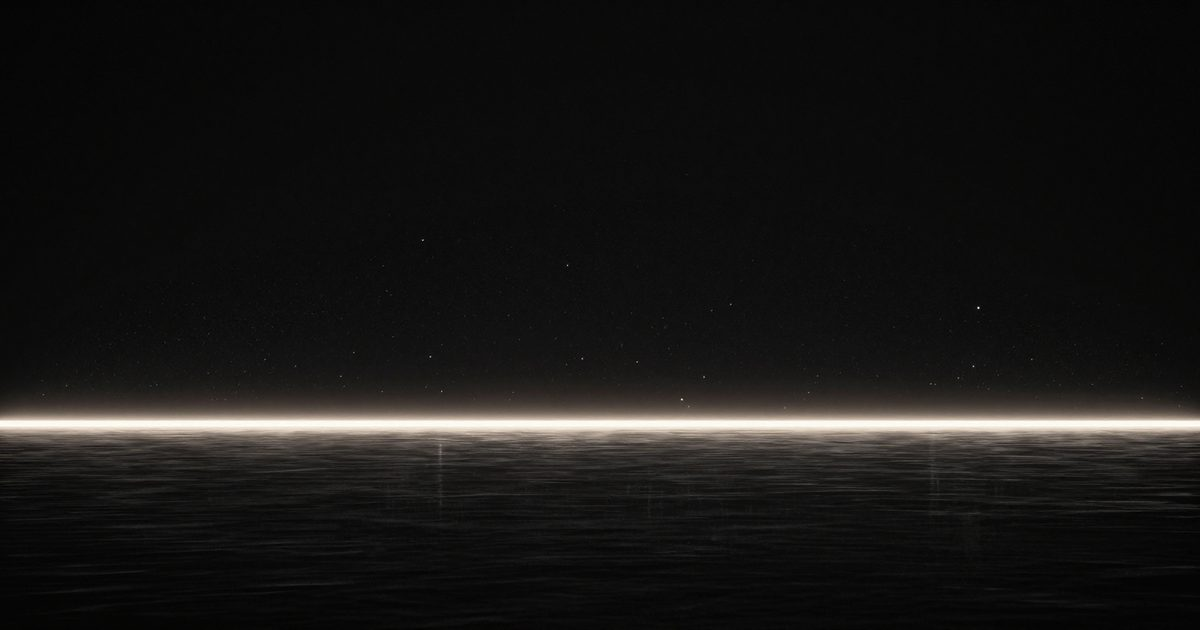
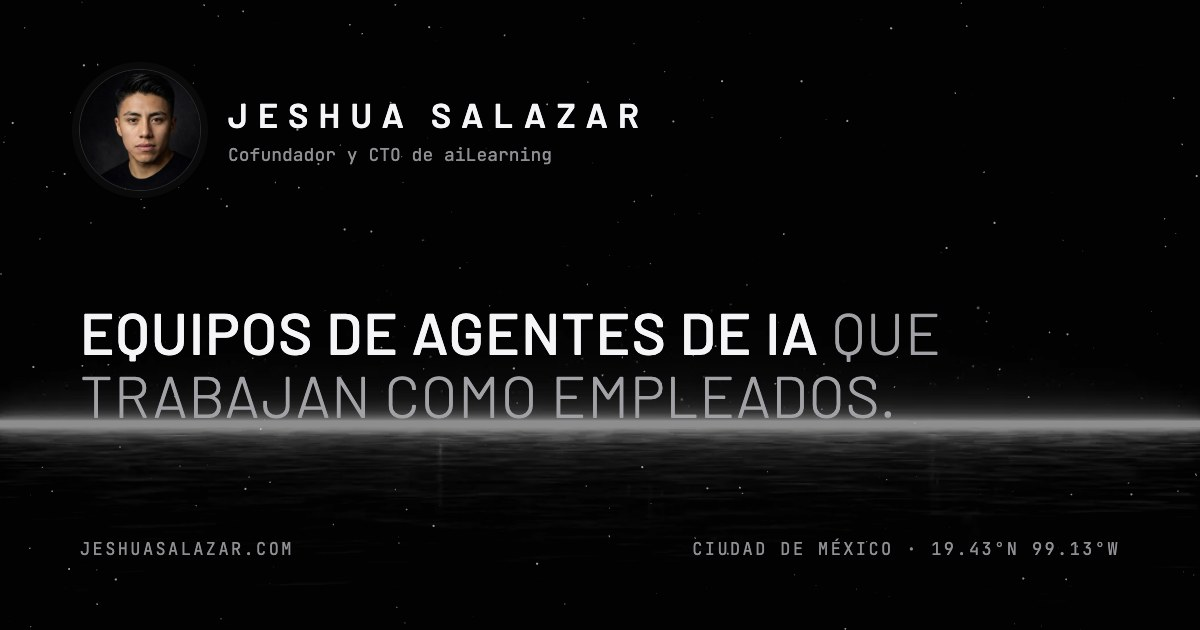
feat(seo): sitemap, robots, hreflang, canónicas, JSON-LD, íconos y OG
- sitemap.xml (36 URLs con hreflang + x-default) y robots.txt.
- Canónica y título propios por página; Open Graph de perfil por idioma.
- JSON-LD: Person, WebSite, ProfessionalService con ofertas; Article y
  BreadcrumbList en los casos.
- Raíz / → /es con 301 (antes redirigía con JavaScript) y 301 de rutas viejas.
- Ícono, favicon, apple-icon, manifest e imagen OG nuevos.
- Cabeceras de seguridad y caché largo para estáticos.

diff --git a/src/app/[locale]/layout.tsx b/src/app/[locale]/layout.tsx
@@ -4,6 +4,7 @@ import Booking from "@/components/Booking";
 import Footer from "@/components/Footer";
 import Starfield from "@/components/Starfield";
 import { getDictionary, isRTL, type Locale, locales } from "@/lib/i18n";
+import { alternates } from "@/lib/seo";
 import { type ServiceId, site } from "@/lib/site";
 import "../globals.css";
 
@@ -19,27 +20,35 @@ export const viewport: Viewport = {
   colorScheme: "dark",
 };
 
+const ogLocale: Record<string, string> = { es: "es_MX", en: "en_US", fr: "fr_FR", de: "de_DE", ar: "ar_AR", zh: "zh_CN" };
+
+// Valores por defecto; cada página define su canónica y hreflang.
 export async function generateMetadata({ params }: { params: Promise<{ locale: string }> }): Promise<Metadata> {
   const { locale } = await params;
   const dict = await getDictionary(locale as Locale);
   return {
     metadataBase: new URL(site.url),
-    title: { default: dict.meta.title, template: `%s · Jeshua Salazar` },
+    title: { default: dict.meta.title, template: "%s · Jeshua Salazar" },
     description: dict.meta.description,
-    alternates: {
-      canonical: `/${locale}`,
-      languages: Object.fromEntries(locales.map((l) => [l, `/${l}`])),
-    },
+    applicationName: "Jeshua Salazar",
+    authors: [{ name: "Jeshua Salazar", url: site.url }],
+    creator: "Jeshua Salazar",
+    alternates: alternates(locale),
+    robots: { index: true, follow: true, googleBot: { index: true, follow: true, "max-image-preview": "large", "max-snippet": -1, "max-video-preview": -1 } },
     openGraph: {
-      type: "website",
+      type: "profile",
+      firstName: "Jeshua",
+      lastName: "Salazar",
       url: `/${locale}`,
       siteName: "Jeshua Salazar",
       title: dict.meta.title,
       description: dict.meta.description,
-      images: [{ url: "/img/og.jpg", width: 1200, height: 630 }],
-      locale,
+      images: [{ url: "/img/og.jpg", width: 1200, height: 630, alt: "Jeshua Salazar" }],
+      locale: ogLocale[locale] ?? locale,
+      alternateLocale: locales.filter((l) => l !== locale).map((l) => ogLocale[l]),
     },
     twitter: { card: "summary_large_image", title: dict.meta.title, description: dict.meta.description, images: ["/img/og.jpg"] },
+    ...(process.env.NEXT_PUBLIC_GOOGLE_VERIFICATION ? { verification: { google: process.env.NEXT_PUBLIC_GOOGLE_VERIFICATION } } : {}),
   };
 }
 
@@ -56,21 +65,61 @@ export default async function LocalizedLayout({
 
   const services = dict.services.items.map((s) => ({ id: s.id as ServiceId, name: s.name, desc: s.desc }));
 
+  const person = `${site.url}/#jeshua`;
   const jsonLd = {
     "@context": "https://schema.org",
-    "@type": "Person",
-    name: "Jeshua Salazar",
-    url: site.url,
-    image: `${site.url}/img/retrato-1000.webp`,
-    jobTitle: dict.hero.role,
-    email: `mailto:${site.email}`,
-    sameAs: [site.linkedin],
-    worksFor: { "@type": "Organization", name: "aiLearning", url: site.ailearning },
-    alumniOf: { "@type": "CollegeOrUniversity", name: "Instituto Politécnico Nacional" },
-    makesOffer: dict.services.items.map((s) => ({
-      "@type": "Offer",
-      itemOffered: { "@type": "Service", name: s.name, description: s.desc },
-    })),
+    "@graph": [
+      {
+        "@type": "Person",
+        "@id": person,
+        name: "Jeshua Salazar",
+        url: site.url,
+        image: `${site.url}/img/retrato-1000.webp`,
+        jobTitle: dict.hero.role,
+        description: dict.meta.description,
+        email: `mailto:${site.email}`,
+        sameAs: [site.linkedin, site.github, "https://cal.com/jeshuasalazar"],
+        worksFor: { "@type": "Organization", name: "aiLearning", url: site.ailearning },
+        alumniOf: { "@type": "CollegeOrUniversity", name: "Instituto Politécnico Nacional", url: "https://www.ipn.mx" },
+        address: { "@type": "PostalAddress", addressLocality: "Ciudad de México", addressCountry: "MX" },
+        knowsLanguage: ["es", "en", "fr", "de"],
+        knowsAbout: ["Inteligencia artificial", "Agentes de IA", "Automatización de procesos", "IA generativa", "Claude Code", "Social Commerce"],
+      },
+      {
+        "@type": "WebSite",
+        "@id": `${site.url}/#website`,
+        url: site.url,
+        name: "Jeshua Salazar",
+        inLanguage: locales,
+        publisher: { "@id": person },
+      },
+      {
+        "@type": "ProfessionalService",
+        "@id": `${site.url}/#servicios`,
+        name: "Jeshua Salazar · Agentes de IA para empresas",
+        url: `${site.url}/${locale}`,
+        image: `${site.url}/img/og.jpg`,
+        email: site.email,
+        founder: { "@id": person },
+        areaServed: [{ "@type": "Country", name: "México" }, "Latinoamérica"],
+        address: { "@type": "PostalAddress", addressLocality: "Ciudad de México", addressCountry: "MX" },
+        priceRange: "$$",
+        hasOfferCatalog: {
+          "@type": "OfferCatalog",
+          name: dict.services.label,
+          itemListElement: dict.services.items.map((s) => {
+            const id = s.id as ServiceId;
+            const price = id === "diagnostico" ? "0" : id === "estrategia" ? "3900" : null;
+            return {
+              "@type": "Offer",
+              url: site.booking[id] ?? `${site.url}/${locale}/contacto`,
+              ...(price ? { price, priceCurrency: "MXN" } : {}),
+              itemOffered: { "@type": "Service", name: s.name, description: s.desc, provider: { "@id": person } },
+            };
+          }),
+        },
+      },
+    ],
   };
 
   return (

diff --git a/src/app/[locale]/proyectos/[slug]/page.tsx b/src/app/[locale]/proyectos/[slug]/page.tsx
@@ -1,15 +1,30 @@
 import fs from "node:fs";
 import path from "node:path";
+import type { Metadata } from "next";
 import Link from "next/link";
 import { notFound } from "next/navigation";
 import { locales, Locale, getDictionary } from "@/lib/i18n";
 import { getProjectBySlug } from "@/lib/mdx";
+import { alternates } from "@/lib/seo";
+import { site } from "@/lib/site";
 
 export async function generateStaticParams() {
   const CONTENT_PATH = path.join(process.cwd(), "src/content/projects");
   if (!fs.existsSync(CONTENT_PATH)) return [];
   const slugs = fs.readdirSync(CONTENT_PATH).filter((s) => fs.statSync(path.join(CONTENT_PATH, s)).isDirectory());
   return locales.flatMap((locale) => slugs.map((slug) => ({ locale, slug })));
+}
+
+export async function generateMetadata({ params }: { params: Promise<{ locale: string; slug: string }> }): Promise<Metadata> {
+  const { locale, slug } = await params;
+  const p = getProjectBySlug(slug, locale as Locale);
+  if (!p) return {};
+  return {
+    title: p.frontmatter.title,
+    description: p.frontmatter.summary,
+    alternates: alternates(locale, `/proyectos/${slug}`),
+    openGraph: { type: "article", title: p.frontmatter.title, description: p.frontmatter.summary, url: `/${locale}/proyectos/${slug}` },
+  };
 }
 
 function SimpleMarkdown({ content }: { content: string }) {
@@ -90,6 +105,33 @@ export default async function ProjectDetailPage({
 
   return (
     <article className="col pb-16 pt-12">
+      <script
+        type="application/ld+json"
+        // biome-ignore lint/security/noDangerouslySetInnerHtml: JSON-LD estático, con "<" escapado
+        dangerouslySetInnerHTML={{
+          __html: JSON.stringify({
+            "@context": "https://schema.org",
+            "@graph": [
+              {
+                "@type": "Article",
+                headline: f.title,
+                description: f.summary,
+                inLanguage: locale,
+                dateModified: f.updatedAt,
+                author: { "@id": `${site.url}/#jeshua` },
+                mainEntityOfPage: `${site.url}/${locale}/proyectos/${slug}`,
+              },
+              {
+                "@type": "BreadcrumbList",
+                itemListElement: [
+                  { "@type": "ListItem", position: 1, name: "Jeshua Salazar", item: `${site.url}/${locale}` },
+                  { "@type": "ListItem", position: 2, name: f.title, item: `${site.url}/${locale}/proyectos/${slug}` },
+                ],
+              },
+            ],
+          }).replace(/</g, "\\u003c"),
+        }}
+      />
       <Link href={`/${locale}`} className="text-sm text-[var(--color-label-2)] hover:text-white">
         ← {d.cases.back}
       </Link>

diff --git a/src/app/sitemap.ts b/src/app/sitemap.ts
@@ -1,0 +1,24 @@
+import type { MetadataRoute } from "next";
+import { locales } from "@/lib/i18n";
+import { alternates, caseSlugs } from "@/lib/seo";
+
+export const dynamic = "force-static";
+
+export default function sitemap(): MetadataRoute.Sitemap {
+  const routes: { route: string; priority: number; freq: "weekly" | "monthly" | "yearly" }[] = [
+    { route: "", priority: 1, freq: "weekly" },
+    { route: "/contacto", priority: 0.8, freq: "monthly" },
+    ...caseSlugs().map((s) => ({ route: `/proyectos/${s}`, priority: 0.7, freq: "monthly" as const })),
+    { route: "/privacidad", priority: 0.2, freq: "yearly" },
+  ];
+  const lastModified = new Date();
+  return routes.flatMap(({ route, priority, freq }) =>
+    locales.map((l) => ({
+      url: alternates(l, route).canonical,
+      lastModified,
+      changeFrequency: freq,
+      priority: l === "es" ? priority : Math.round(priority * 0.8 * 10) / 10,
+      alternates: { languages: alternates(l, route).languages },
+    })),
+  );
+}

diff --git a/src/lib/seo.ts b/src/lib/seo.ts
@@ -1,0 +1,22 @@
+import fs from "node:fs";
+import path from "node:path";
+import { locales } from "./i18n";
+import { site } from "./site";
+
+// Canónica + hreflang para una ruta (sin prefijo de idioma, p. ej. "/contacto").
+// x-default apunta a español, el idioma principal del sitio.
+export function alternates(locale: string, route = "") {
+  return {
+    canonical: `${site.url}/${locale}${route}`,
+    languages: {
+      ...Object.fromEntries(locales.map((l) => [l, `${site.url}/${l}${route}`])),
+      "x-default": `${site.url}/es${route}`,
+    },
+  };
+}
+
+export function caseSlugs(): string[] {
+  const dir = path.join(process.cwd(), "src/content/projects");
+  if (!fs.existsSync(dir)) return [];
+  return fs.readdirSync(dir).filter((s) => fs.statSync(path.join(dir, s)).isDirectory());
+}

diff --git a/src/app/manifest.ts b/src/app/manifest.ts
@@ -1,0 +1,20 @@
+import type { MetadataRoute } from "next";
+
+export const dynamic = "force-static";
+
+export default function manifest(): MetadataRoute.Manifest {
+  return {
+    name: "Jeshua Salazar",
+    short_name: "Jeshua",
+    description: "Equipos de agentes de IA que trabajan como empleados.",
+    start_url: "/es",
+    display: "standalone",
+    background_color: "#050506",
+    theme_color: "#050506",
+    icons: [
+      { src: "/icon.svg", type: "image/svg+xml", sizes: "any" },
+      { src: "/apple-icon.png", type: "image/png", sizes: "180x180" },
+      { src: "/img/icon-512.png", type: "image/png", sizes: "512x512", purpose: "any" },
+    ],
+  };
+}

diff --git a/src/app/[locale]/contacto/page.tsx b/src/app/[locale]/contacto/page.tsx
@@ -1,5 +1,13 @@
 import { Locale, getDictionary } from "@/lib/i18n";
+import type { Metadata } from "next";
+import { alternates } from "@/lib/seo";
 import ContactClient from "./ContactClient";
+
+export async function generateMetadata({ params }: { params: Promise<{ locale: string }> }): Promise<Metadata> {
+  const { locale } = await params;
+  const d = await getDictionary(locale as Locale);
+  return { title: `${d.nav.contact} · ${d.hero.cta_book}`, description: d.contact.subtitle, alternates: alternates(locale, "/contacto") };
+}
 
 export default async function ContactPage({
   params,

diff --git a/src/app/[locale]/privacidad/page.tsx b/src/app/[locale]/privacidad/page.tsx
@@ -1,4 +1,12 @@
-import { Locale } from "@/lib/i18n";
+import type { Metadata } from "next";
+import { getDictionary, type Locale } from "@/lib/i18n";
+import { alternates } from "@/lib/seo";
+
+export async function generateMetadata({ params }: { params: Promise<{ locale: string }> }): Promise<Metadata> {
+  const { locale } = await params;
+  const d = await getDictionary(locale as Locale);
+  return { title: d.footer.privacy, alternates: alternates(locale, "/privacidad"), robots: { index: true, follow: true } };
+}
 
 export default async function PrivacyPage({
   params,

diff --git a/src/app/robots.ts b/src/app/robots.ts
@@ -1,0 +1,12 @@
+import type { MetadataRoute } from "next";
+import { site } from "@/lib/site";
+
+export const dynamic = "force-static";
+
+export default function robots(): MetadataRoute.Robots {
+  return {
+    rules: [{ userAgent: "*", allow: "/" }],
+    sitemap: `${site.url}/sitemap.xml`,
+    host: site.url,
+  };
+}
